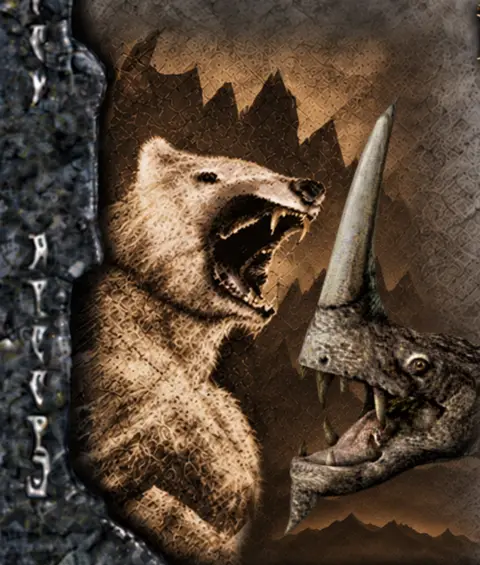
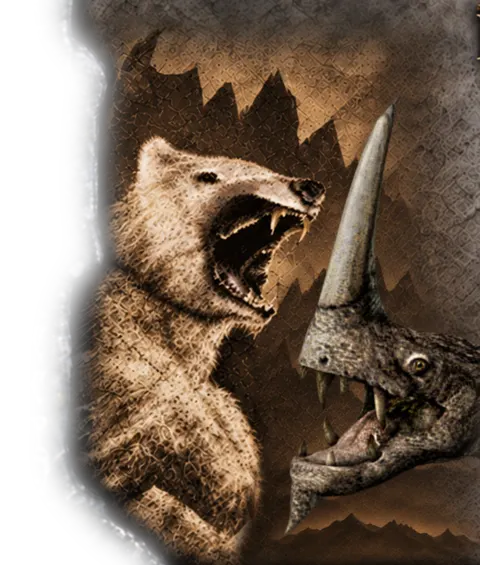
Frame the jumbotron with carved stone pillars at both edges

Changed region(s): [[0.0, 0.0, 0.375, 1.0]]

diff --git a/styles.css b/styles.css
@@ -33,10 +33,13 @@ p { margin: 0 0 16px; }
   border-bottom: 1px solid #927444;
   background-color: #080705;
   background-image:
+    url("./assets/jumbotron-left-pillar.webp"),
+    url("./assets/jumbotron-right-pillar.webp"),
     radial-gradient(ellipse 46rem 120% at 50% 12%, #231b11f5, #0d0a07e8 55%, #0a08064d),
     url("./assets/jumbotron-stone.webp");
-  background-position: center;
-  background-repeat: no-repeat, repeat;
+  background-position: left center, right center, center, center;
+  background-size: auto 112%, auto 112%, auto, auto;
+  background-repeat: no-repeat, no-repeat, no-repeat, repeat;
   color: #ece0c9;
   font: 400 1rem/1.5 "Source Sans 3", system-ui, sans-serif;
   text-align: center;
@@ -57,13 +60,13 @@ p { margin: 0 0 16px; }
 }
 .jumbotron::before {
   inset-inline-start: var(--art-inset);
-  background-image: url("./assets/jumbotron-left.webp");
+  background-image: url("./assets/jumbotron-left.webp?v=2");
   background-position: left center;
   mask-image: linear-gradient(to right, transparent, #000 12%, #000 44%, transparent 96%);
 }
 .jumbotron::after {
   inset-inline-end: var(--art-inset);
-  background-image: url("./assets/jumbotron-right.webp");
+  background-image: url("./assets/jumbotron-right.webp?v=2");
   background-position: right center;
   mask-image: linear-gradient(to left, transparent, #000 12%, #000 44%, transparent 96%);
 }
@@ -231,5 +234,6 @@ code { background: #212830; border-radius: 5px; padding: .17em .36em; overflow-w
 footer { border-top: 1px solid var(--border); padding-block: 18px 28px; color: var(--secondary); font-size: .875rem; }
 @media (max-width: 520px) {
   main > :not(.jumbotron), footer { width: calc(100% - 28px); }
+  .jumbotron { background-size: min(18vw, 76px) 112%, min(18vw, 76px) 112%, auto, auto; }
   .jumbotron::before, .jumbotron::after { opacity: .26; }
 }

diff --git a/index.html b/index.html
@@ -7,7 +7,7 @@
   <meta name="description" content="Get tes3np, the Windows launcher and patcher for Morrowind's Nerevarine Prophecies server.">
   <title>tes3np · Nerevarine Prophecies Launcher</title>
   <link rel="stylesheet" href="https://fonts.googleapis.com/css2?family=Cormorant+Garamond:wght@700&amp;family=Source+Sans+3:wght@400;700&amp;display=swap">
-  <link rel="stylesheet" href="./styles.css?v=10">
+  <link rel="stylesheet" href="./styles.css?v=11">
 </head>
 <body>
   <main id="top">
